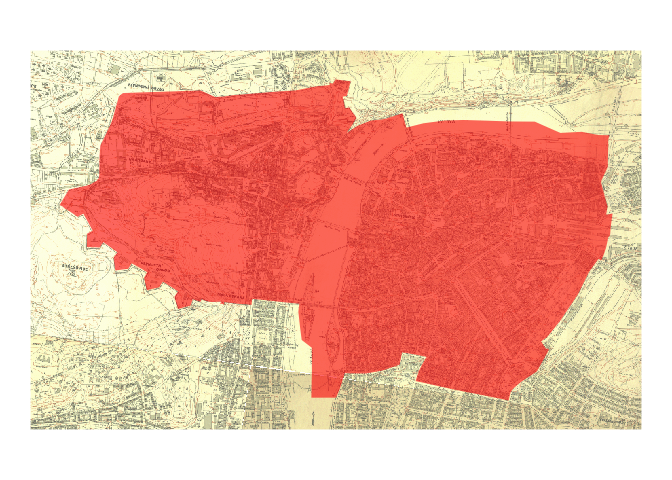
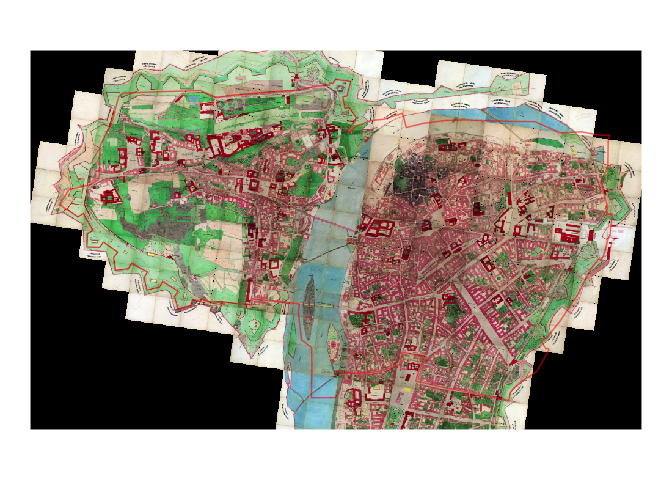
update endpoint for historical map example in README, relates to #40

diff --git a/README.md b/README.md
@@ -37,9 +37,9 @@ remotes::install_github("petrbouchal/pragr")
 
 Currently, the 📦 enables you to do two things:
 
-1)  Add raster tiles from the Prague geoopen data portal to a `ggplot2`
+1.  Add raster tiles from the Prague geoopen data portal to a `ggplot2`
     object (`prg_tile()`)
-2)  Add other raster layer to a `ggplot2` object (`prg_basemap()`)
+2.  Add other raster layer to a `ggplot2` object (`prg_basemap()`)
 
 The basic logic of the two core functions is that given a simple feature
 dataset, they provide the tiles or image to create the base map for
@@ -48,21 +48,21 @@ those coordinates.
 It relies on the REST API of ArcGis map/image services that power the
 geoportal, using documentation for the following operations (endpoints):
 
-  - [Image Tile
+-   [Image Tile
     endpoint](https://developers.arcgis.com/rest/services-reference/image-tile.htm)
-  - [Export Image
+-   [Export Image
     endoint](https://developers.arcgis.com/rest/services-reference/export-image.htm)
-  - [Export Map (image)
+-   [Export Map (image)
     endpoint](https://developers.arcgis.com/rest/services-reference/export-map.htm)
 
 Additionally, the package provides
 
-  - quick access to a number of codes that identify Prague in various
+-   quick access to a number of codes that identify Prague in various
     administrative or statistical registers.
-  - a function for downloading official Prague admin geodata (admin
+-   a function for downloading official Prague admin geodata (admin
     boundaries etc.)
-  - square and hex tiles for equal-area plotting
-  - a grid object suitable for use in the `geofacet::facet_geo()`
+-   square and hex tiles for equal-area plotting
+-   a grid object suitable for use in the `geofacet::facet_geo()`
     function.
 
 ## Credit, inspiration and extensibility
@@ -105,9 +105,9 @@ parameters can be found in `prg_endpoints`.
 
 ``` r
 ggplot() +
-  prg_tile(data = praha1, zoom = 10, alpha = .7, buffer = 200,
+  prg_tile(data = praha1, zoom = 10, alpha = 1, buffer = 200,
            tile_service = 'orto') + 
-  geom_sf(data = praha1, fill = alpha("red", 0.6), colour = NA) +
+  geom_sf(data = praha1, colour = alpha("red", 0.6), fill = NA, shape = "dotted") +
   theme_void()
 ```
 
@@ -118,9 +118,9 @@ the given image service (see note on sources below).
 
 ``` r
 ggplot() +
-  prg_basemap(data = praha1, alpha = .8, buffer = 200,
-              image_service = 'mapy_archiv', layer = 6) + 
-  geom_sf(data = praha1, fill = alpha("red", 0.6), colour = NA) +
+  prg_basemap(data = praha1, alpha = 1, buffer = 200, width = 1000,
+              image_service = 'cisarske_otisky_1840_velke', layer = 1) + 
+  geom_sf(data = praha1, colour = alpha("red", 0.6), fill = NA, shape = "dotted") +
   theme_void()
 ```
 
@@ -150,33 +150,33 @@ Most map/image services are accessible via
 
 A more technical route to lists of services is via
 
-  - <https://mpp.praha.eu/arcgis/rest/services/>
-  - <https://tiles.arcgis.com/tiles/SBTXIEUGWbqzUecw/arcgis/rest/services>
-  - <http://mpp.iprpraha.cz/arcgis/rest/services/>
+-   <https://mpp.praha.eu/arcgis/rest/services/>
+-   <https://tiles.arcgis.com/tiles/SBTXIEUGWbqzUecw/arcgis/rest/services>
+-   <http://mpp.iprpraha.cz/arcgis/rest/services/>
 
 For some of the services, shortcut notation is implemented for use in
 the tile/basemap functions.
 
 ## Note on geodata about Prague
 
-See [vignette](articles/data-sources.html) or `vignette("data-sources",
-package = "pragr")`.
+See [vignette](articles/data-sources.html) or
+`vignette("data-sources", package = "pragr")`.
 
 # See also:
 
-  - [CzechData](https://github.com/JanCaha/CzechData)
-  - [czso](https://github.com/petrbouchal/czso)
+-   [CzechData](https://github.com/JanCaha/CzechData)
+-   [czso](https://github.com/petrbouchal/czso)
 
 ## Acknowledgments
 
-  - Most importantly, IPR Praha for providing the open data\!
-  - The approach draws heavily on code provided by
+-   Most importantly, IPR Praha for providing the open data!
+-   The approach draws heavily on code provided by
     @[yutannihilation](https://github.com/yutannihilation) in her \[blog
     post\]
-  - logo designed using the 📦 bunny by
+-   logo designed using the 📦 bunny by
     @[dmi3kno](https://github.com/dmi3kno) following his [blog
     post](%5Bhttps://www.ddrive.no/post/making-hex-and-twittercard-with-bunny-and-magick/%5D)
-  - font in logo is Trivia Serif by [František
+-   font in logo is Trivia Serif by [František
     Štorm](https://stormtype.com)
 
 ## Code of Conduct
